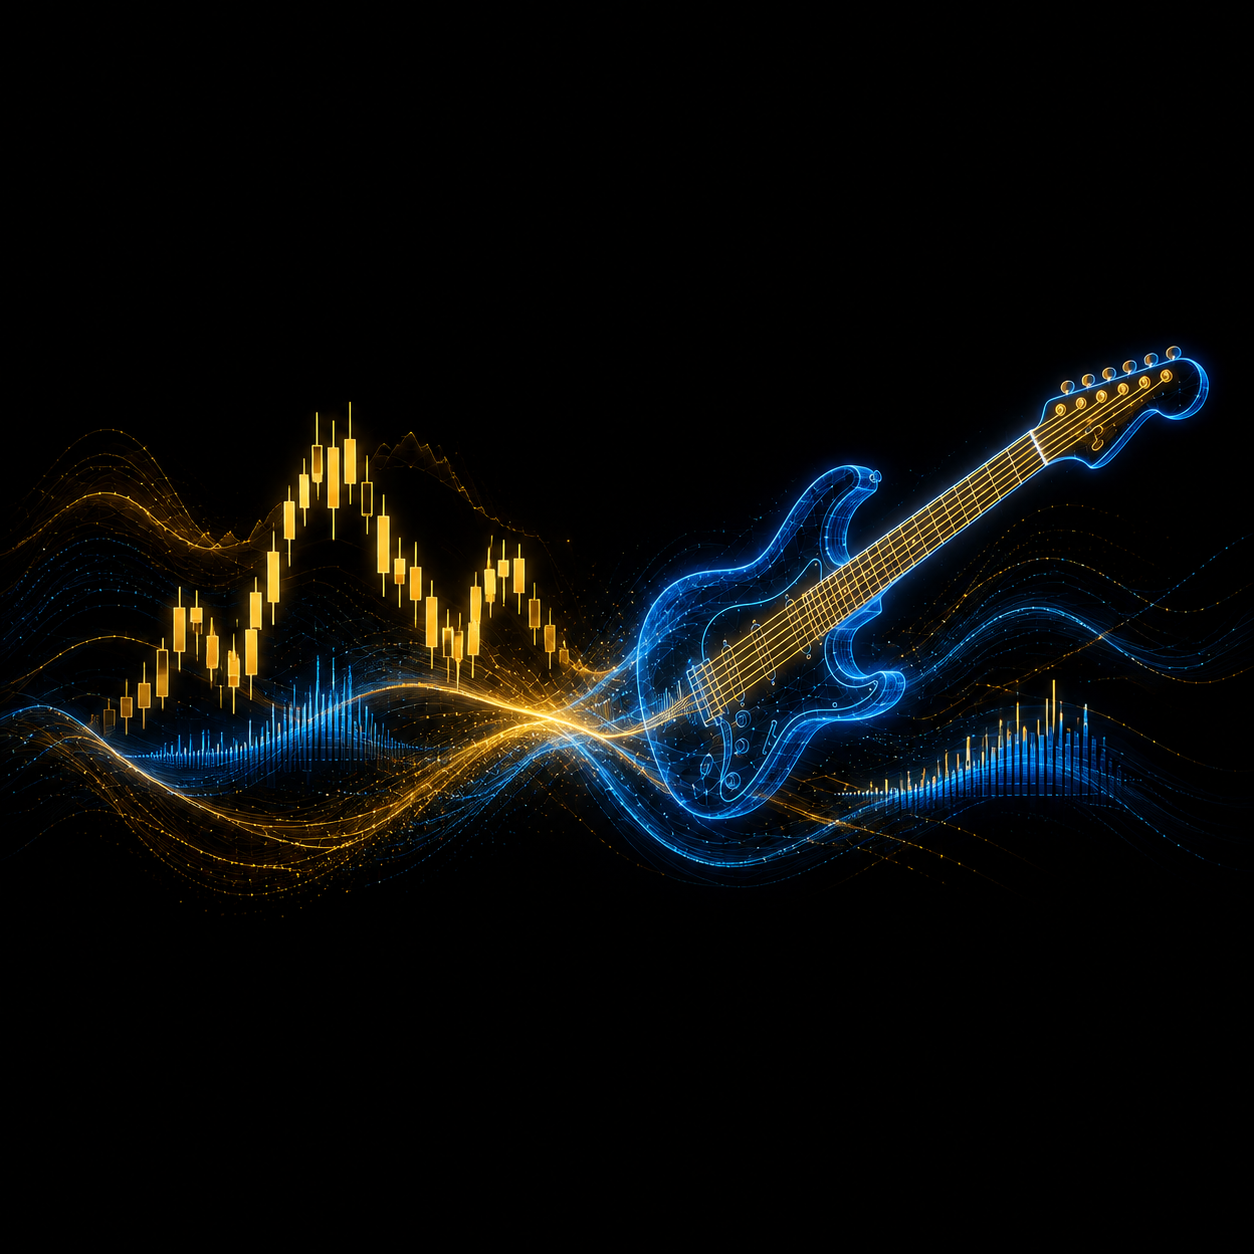
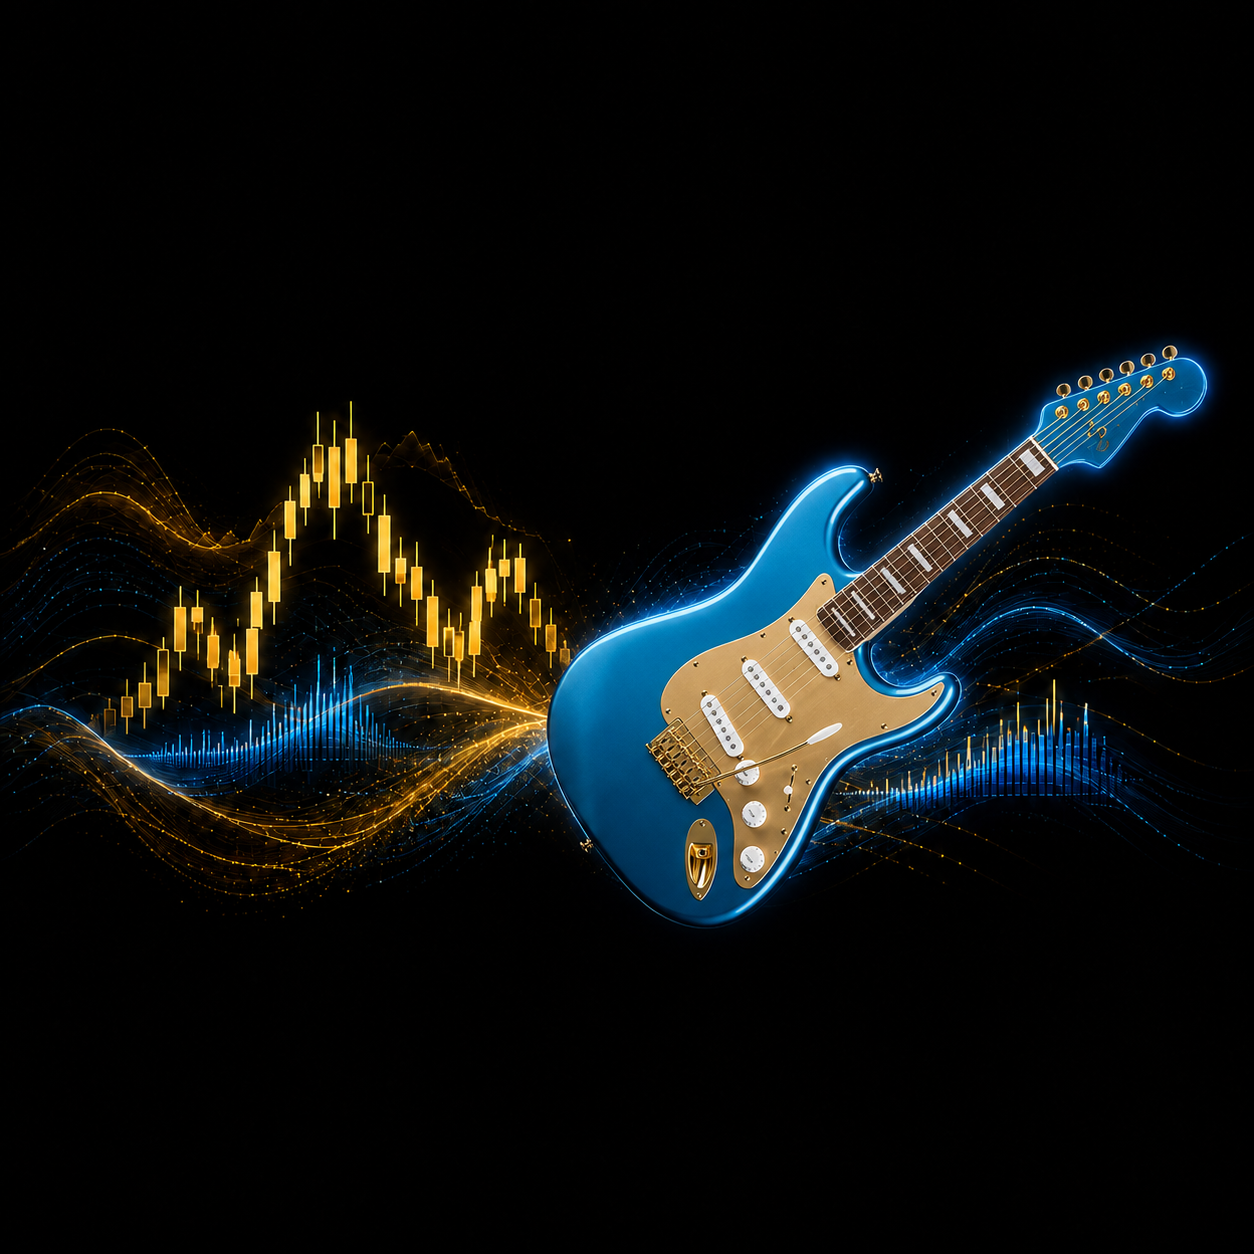
Match MaloSound artwork to the blue and gold guitar reference

Changed region(s): [[0.0, 0.2799, 0.9641, 0.7464], [0.0933, 0.3732, 0.1866, 0.4354], [0.8708, 0.4976, 0.9019, 0.5287]]

diff --git a/index.html b/index.html
@@ -28,7 +28,7 @@
 <header class="topbar"><a class="wordmark" href="./">malosound<span>.ai</span></a><nav class="nav" aria-label="Main navigation"><a href="#journal">Sessions</a><a href="market-map.html">Explore</a><a href="#xiv">XIV</a><a href="studio.html">Studio ↗</a></nav></header>
 <main id="main">
 <section class="art-stage" aria-labelledby="hero-heading">
-<img class="stage-art" src="assets/brand/market-into-music.png" alt="Gold market signals merging into an electric blue guitar." width="1672" height="941" fetchpriority="high">
+<img class="stage-art" src="assets/brand/market-into-music.png" alt="Gold market signals flowing into Marcelo’s blue guitar with a gold pickguard." width="1672" height="941" fetchpriority="high">
 <div class="stage-orbit orbit-one" aria-hidden="true"></div><div class="stage-orbit orbit-two" aria-hidden="true"></div>
 <div class="stage-coordinates" aria-hidden="true"><span>MS / 001</span><span>SOUND × SIGNAL</span></div>
 <div class="stage-copy"><span class="eyebrow gold">An artist’s market journal</span><h1 id="hero-heading">The market.<br><em>In another key.</em></h1><a class="enter-session" href="#journal">Enter the session <span>↘</span></a></div>

diff --git a/docs/MALOSOUND_LINKEDIN.md b/docs/MALOSOUND_LINKEDIN.md
@@ -27,9 +27,17 @@ not confirm that the saved LinkedIn card has changed.
 
 ## Artwork provenance
 
+September 5 update: both website assets now use the owner's blue-and-gold guitar
+reference, preserving the black/gold/blue composition. The original wide and
+square PNGs, the new versions, the reference photo, and prompts are preserved
+separately in the owner's Desktop/MaloSound folder. All images retain their
+original output dimensions. The photo crops the headstock; that part of the
+render remains an interpretation. No change to existing saved LinkedIn media
+was made or verified. The provenance and prompt below describe the prior square.
+
 Created with the built-in imagegen tool in one edit request from the user's
 original `Codex Image Sep 4, 2026, 07_37_21 PM.png`. The original wide image
-remains the homepage artwork. The generated square is a separate asset.
+was the homepage artwork. The generated square is a separate asset.
 
 Final image prompt:
 
